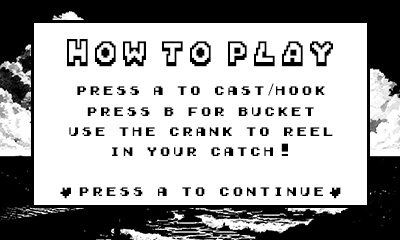
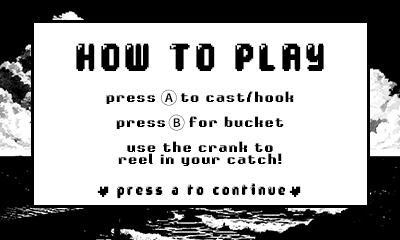
refactored instructions. updated instruction graphics

diff --git a/README.md b/README.md
@@ -37,3 +37,11 @@ A fishing sim for Playdate. Press A to cast your line, wait for the owl to hoot,
 
 * **Reel-In Bar**: Shows progress toward landing the fish.
 
+
+
+
+instructions:
+first screen: control
+second screen: how to cast
+third: how to reel in
+maybe fourth :bucket
